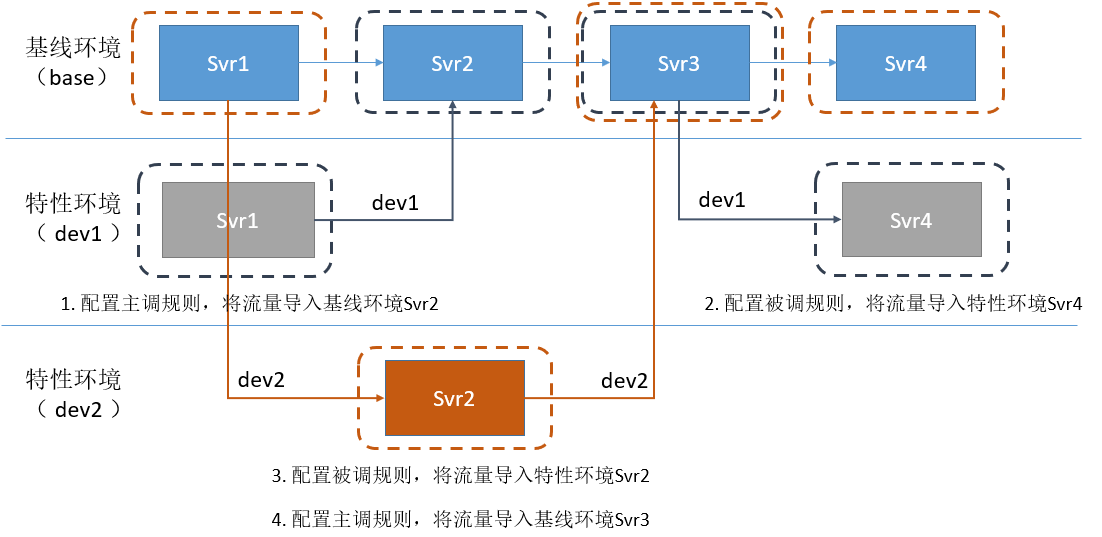
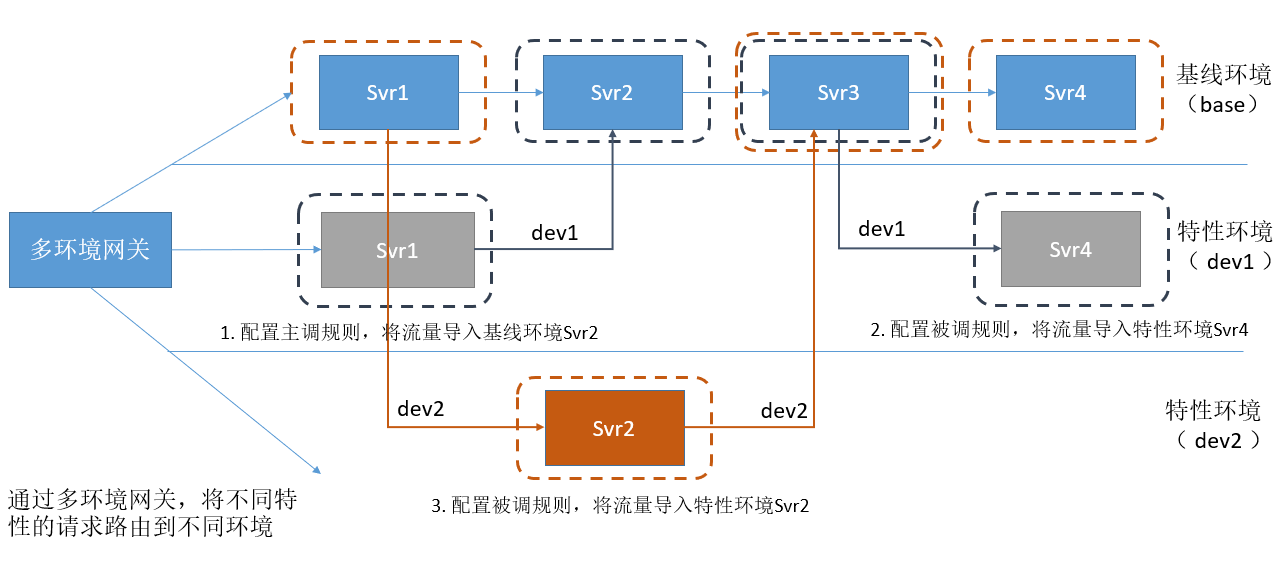
feat：更新文档及图片

diff --git a/docs/zh/doc/使用指南/动态路由/规则路由.md b/docs/zh/doc/使用指南/动态路由/规则路由.md
@@ -108,11 +108,11 @@
 本次场景，存在2个特性并行开发，特性（dev1）涉及修改的微服务为Svr1和Srv4，特性（dev2）涉及修改的微服务为Svr2。其他不涉及修改的微服务，在开发联调过程中，统一使用基线环境的服务。
 为了防止混乱，每个特性开发人员只允许针对自己涉及修改的微服务添加针对当前特性的规则，不涉及修改的微服务不允许添加规则。
 
-（1）所有的服务默认只有一个路由规则，只在基线环境之间路由。
+（1）所有的服务默认配置一个兜底规则，将请求导入到基线环境。
 
 ![](图片/env_base_route_rule.png)
 
-（2）Srv1服务添加一个主调规则，将来源dev1请求路由到dev1的Srv2，否则路由到基线的Srv2。
+（2）Srv1服务添加一个主调规则，将来源dev1请求路由到dev1的Srv2。
 
 ![](图片/srv1_out_route_rule.png)
 
@@ -123,10 +123,6 @@
 （4）Srv2服务添加一个被调规则，将来源dev2请求路由到dev2的Srv2。
 
 ![](图片/srv2_in_route_rule.png)
-
-（5）Srv2服务添加一个主调规则，将来源dev2请求路由到dev2的Srv3，否则路由到基线的Srv3。
-
-![](图片/srv2_out_route_rule.png)
 
 - 执行服务路由
 
